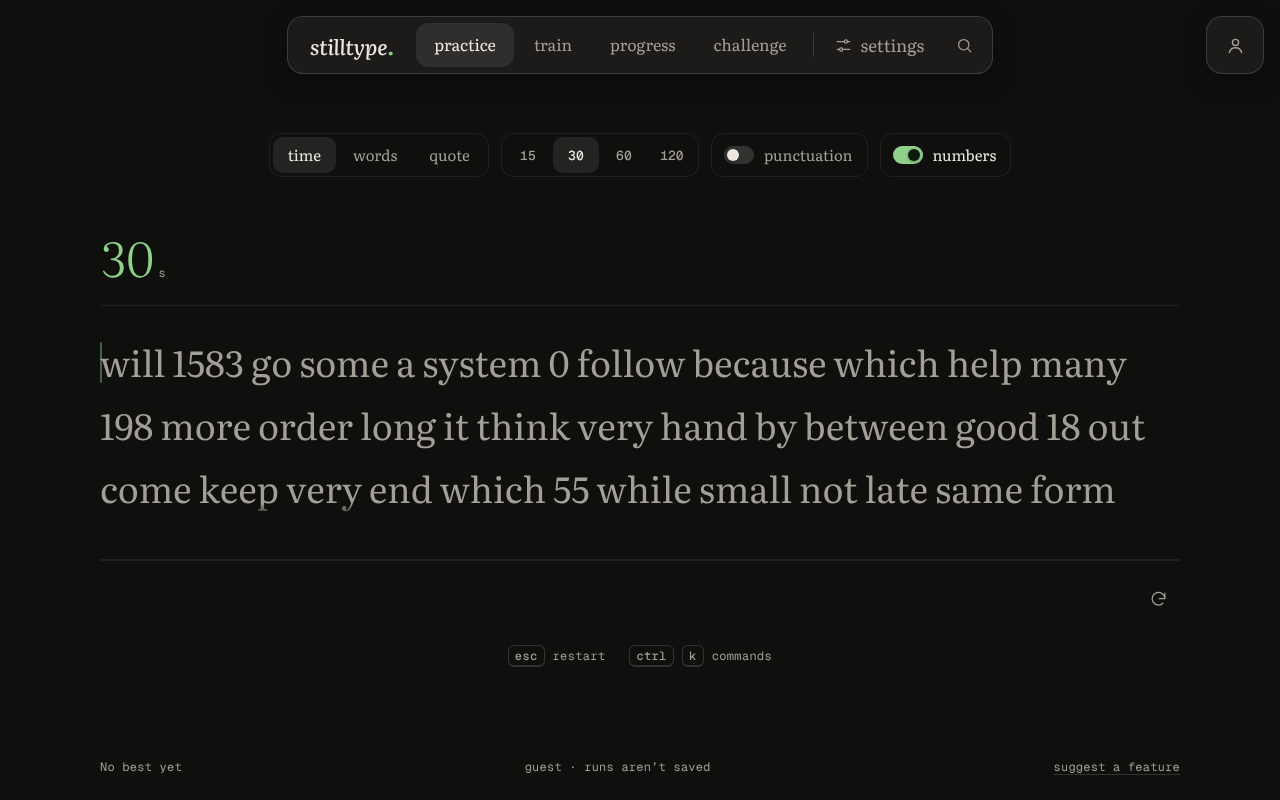
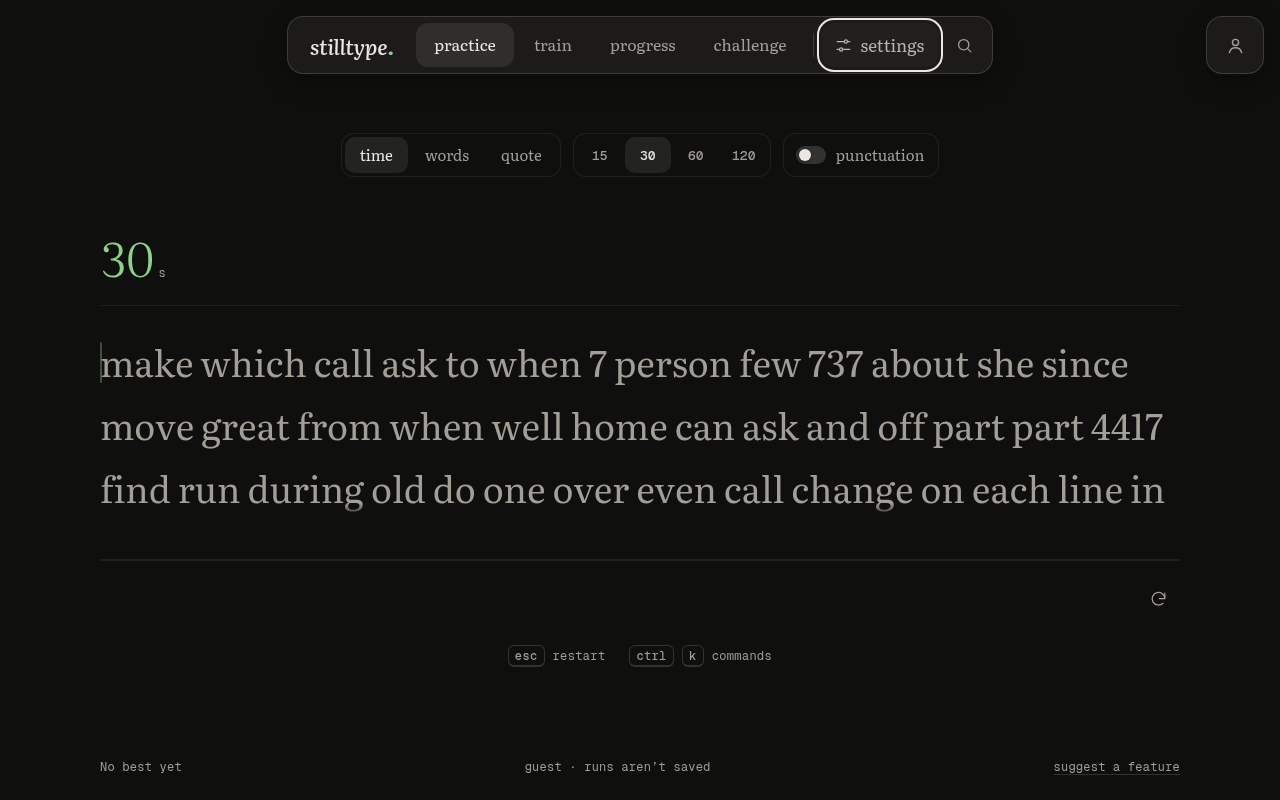
Tuck numbers into test content settings

diff --git a/e2e/numbers-toggle.spec.js b/e2e/numbers-toggle.spec.js
@@ -1,21 +1,166 @@
-import { test, expect, openApp, chooseWords, completePassage, passageText } from './fixtures.js';
+import { test, expect, openApp, chooseWords, completePassage, passageText, openSettings, openView, signInWithEmail } from './fixtures.js';
+import { dailyPassage } from '../src/insights.js';
+import { quoteCorpus } from '../src/typing.js';
 
 // Committed docs images are refreshed only with SCREENSHOTS=1; normal runs write to the test output.
 const shot = (testInfo, name) => (process.env.SCREENSHOTS ? `docs/screenshots/numbers-toggle/${name}` : testInfo.outputPath(name));
 
-test('numbers toggle mixes digits into the passage and into the conditions', async ({ page }) => {
+async function openTestContent(page) {
+  await openSettings(page);
+  const category = page.locator('#test-content-settings');
+  if (!(await category.evaluate((node) => node.open))) await category.locator('summary').click();
+  await expect(page.locator('#numbers-toggle')).toBeVisible();
+}
+
+async function numbersCommand(page, hint) {
+  await page.keyboard.press('Control+k');
+  await page.locator('#palette-input').fill('numbers');
+  await expect(page.locator('#palette-list [aria-selected="true"] .opt-hint')).toHaveText(hint);
+  await page.keyboard.press('Enter');
+  await expect(page.locator('#palette')).toBeHidden();
+}
+
+test('numbers live in test content settings, default off, and keep practice bests separate', async ({ page }) => {
   await openApp(page);
   await chooseWords(page, 10);
+  await expect(page.locator('.practice-controls #numbers-toggle')).toHaveCount(0);
+  await expect(page.locator('#numbers-toggle')).toBeHidden();
   await expect(page.locator('#numbers-toggle')).not.toBeChecked();
   expect(await passageText(page)).not.toMatch(/\d/);
+  await completePassage(page);
+  await expect(page.locator('#result-conditions')).not.toContainText('numbers');
 
-  await page.locator('label[for="numbers-toggle"]').click();
-  await expect(page.locator('#numbers-toggle')).toBeChecked();
+  await page.locator('#run-again').click();
+  await openSettings(page);
+  await expect(page.locator('#test-content-settings')).not.toHaveAttribute('open');
+  await expect(page.locator('#numbers-toggle')).toBeHidden();
+  await openTestContent(page);
+  await page.locator('#word-list').selectOption('1k');
+  await expect(page.locator('#condition-line')).toContainText('english 1k');
+  await page.locator('#word-list').selectOption('200');
+  await page.getByLabel('numbers', { exact: true }).check();
   await expect(page.locator('#condition-line')).toContainText('numbers');
   await expect.poll(() => passageText(page)).toMatch(/\d/);
-
+  await expect(page.locator('#best')).toHaveText('No best yet');
   await completePassage(page);
   await expect(page.locator('#result-conditions')).toContainText('numbers');
+  await expect(page.locator('#result-delta')).toHaveText('First run at these settings');
+
+  await openView(page, 'Progress');
+  const conditions = page.locator('#progress-conditions');
+  const keys = await conditions.locator('option').evaluateAll((options) => options.filter((o) => o.textContent.includes('10 words')).map((o) => o.value));
+  expect(keys).toHaveLength(2);
+  for (const key of keys) {
+    await conditions.selectOption(key);
+    await expect(page.locator('#run-history .run-row')).toHaveCount(1);
+  }
+});
+
+test('numbers command stays available and toggles timed passages both ways', async ({ page }) => {
+  await openApp(page);
+  await numbersCommand(page, 'off');
+  await expect(page.locator('#numbers-toggle')).toBeChecked();
+  await expect(page.locator('#condition-line')).toContainText('30 s');
+  await expect(page.locator('#condition-line')).toContainText('numbers');
+  expect(await passageText(page)).toMatch(/\d/);
+  await numbersCommand(page, 'on');
+  await expect(page.locator('#numbers-toggle')).not.toBeChecked();
+  await expect(page.locator('#condition-line')).not.toContainText('numbers');
+  expect(await passageText(page)).not.toMatch(/\d/);
+});
+
+test('fresh retests restore numbers from the baseline after the preference changes', async ({ page }) => {
+  await openApp(page);
+  await chooseWords(page, 10);
+  await numbersCommand(page, 'off');
+  const baseline = await completePassage(page);
+  await numbersCommand(page, 'on');
+  await expect(page.locator('#numbers-toggle')).not.toBeChecked();
+  await openView(page, 'Train');
+  await page.locator('#skip-to-retest').click();
+  await expect(page.locator('#typing-screen')).toHaveAttribute('data-session', 'retest');
+  await expect(page.locator('#numbers-toggle')).toBeChecked();
+  await expect(page.locator('#condition-line')).toContainText('numbers');
+  expect(await passageText(page)).not.toBe(baseline);
+  expect(await passageText(page)).toMatch(/\d/);
+  await completePassage(page);
+  await expect(page.locator('#comparison-panel')).toBeVisible();
+  await expect(page.locator('#comparison-panel')).toHaveAttribute('data-outcome', /^(improved|mixed|regressed|steady)$/);
+});
+
+test('quotes ignore numbers and preserve the practice preference', async ({ page }) => {
+  await openApp(page);
+  await numbersCommand(page, 'off');
+  await page.locator('#mode-quote').click();
+  const quote = await passageText(page);
+  expect(quoteCorpus.some((item) => item.text === quote)).toBe(true);
+  await expect(page.locator('#condition-line')).not.toContainText('numbers');
+  await openTestContent(page);
+  await expect(page.locator('#numbers-toggle')).toBeDisabled();
+  await expect(page.locator('#numbers-toggle')).toBeChecked();
+  await page.keyboard.press('Control+k');
+  await page.locator('#palette-input').fill('numbers');
+  await expect(page.locator('#palette-list [role="option"] .opt-label').filter({ hasText: /^numbers$/ })).toHaveCount(0);
+  await page.keyboard.press('Escape');
+  await page.locator('#mode-time').click();
+  await expect(page.locator('#numbers-toggle')).toBeEnabled();
+  await expect(page.locator('#numbers-toggle')).toBeChecked();
+  await expect(page.locator('#condition-line')).toContainText('numbers');
+});
+
+test('account reload retains numbers while daily text and scores stay unchanged', async ({ page, supabase }) => {
+  const day = new Date('2026-10-11T12:00:00Z');
+  await page.clock.install({ time: day });
+  supabase.addUser('numbers@stilltype.test');
+  await openApp(page);
+  await signInWithEmail(page, 'numbers@stilltype.test');
+  await chooseWords(page, 10);
+  await numbersCommand(page, 'off');
+  await expect.poll(() => supabase.profileFor('numbers@stilltype.test')?.preferences.numbers).toBe(true);
+  await page.reload();
+  await expect(page.locator('#numbers-toggle')).toBeChecked();
+  expect(await passageText(page)).toMatch(/\d/);
+  await expect(page.locator('#test-content-settings')).not.toHaveAttribute('open');
+  await openView(page, 'Challenge');
+  await page.locator('#challenge-daily').click();
+  await page.locator('#start-daily').click();
+  expect(await passageText(page)).toBe(dailyPassage(day).text);
+  await expect(page.locator('#condition-line')).not.toContainText('numbers');
+  await completePassage(page);
+  await expect(page.locator('#result-delta')).toHaveText('Daily challenge complete');
+  await expect.poll(() => supabase.profileFor('numbers@stilltype.test')?.runs.length).toBe(1);
+  const profile = supabase.profileFor('numbers@stilltype.test');
+  expect(profile.runs[0]).toMatchObject({ kind: 'daily', conditions: { numbers: false } });
+  expect(profile.bests).toEqual({});
+  expect(profile.preferences.numbers).toBe(true);
+  await openView(page, 'Practice');
+  await expect(page.locator('#condition-line')).toContainText('numbers');
+  expect(await passageText(page)).toMatch(/\d/);
+});
+
+test('test content and its numbers switch work by keyboard at 320px', async ({ page }) => {
+  await page.setViewportSize({ width: 320, height: 760 });
+  await openApp(page);
+  const settings = page.locator('details.preferences > summary');
+  await settings.focus();
+  await page.keyboard.press('Enter');
+  const category = page.locator('#test-content-settings > summary');
+  await category.focus();
+  await page.keyboard.press('Enter');
+  await page.keyboard.press('Tab');
+  await expect(page.locator('#word-list')).toBeFocused();
+  await page.keyboard.press('Tab');
+  await expect(page.locator('#numbers-toggle')).toBeFocused();
+  await page.keyboard.press('Space');
+  await expect(page.locator('#numbers-toggle')).toBeChecked();
+  await expect(page.locator('#condition-line')).toContainText('numbers');
+  expect(await page.evaluate(() => document.documentElement.scrollWidth)).toBeLessThanOrEqual(320);
+  const bounds = await page.locator('#numbers-toggle').boundingBox();
+  expect(bounds.x).toBeGreaterThanOrEqual(0);
+  expect(bounds.x + bounds.width).toBeLessThanOrEqual(320);
+  await page.keyboard.press('Escape');
+  await expect(page.locator('.preferences-popover')).toBeHidden();
+  await expect(settings).toBeFocused();
 });
 
 test('screenshots', async ({ page }, testInfo) => {
@@ -23,10 +168,11 @@ test('screenshots', async ({ page }, testInfo) => {
   for (const theme of ['dark', 'light']) {
     await page.emulateMedia({ colorScheme: theme });
     await openApp(page);
-    await page.locator('#mode-time').click();
-    if (!(await page.locator('#numbers-toggle').isChecked())) await page.locator('label[for="numbers-toggle"]').click();
-    await expect(page.locator('#numbers-toggle')).toBeChecked();
+    await openTestContent(page);
+    await page.locator('#numbers-toggle').check();
     await expect.poll(async () => /\d/.test(await passageText(page))).toBe(true);
+    await page.screenshot({ path: shot(testInfo, `settings-${theme}.png`) });
+    await page.keyboard.press('Escape');
     await page.screenshot({ path: shot(testInfo, `mode-bar-${theme}.png`) });
   }
   await page.emulateMedia({ colorScheme: 'dark' });
@@ -34,4 +180,8 @@ test('screenshots', async ({ page }, testInfo) => {
   await completePassage(page);
   await expect(page.locator('#result-conditions')).toContainText('numbers');
   await page.screenshot({ path: shot(testInfo, 'run-card-dark.png') });
+  await page.setViewportSize({ width: 320, height: 760 });
+  await openView(page, 'Practice');
+  await openTestContent(page);
+  await page.screenshot({ path: shot(testInfo, 'settings-mobile.png') });
 });

diff --git a/index.html b/index.html
@@ -57,15 +57,22 @@
                 <option value="36">large</option>
               </select>
             </label>
-            <label class="preference-row" for="word-list">
-              <span><strong>word list</strong></span>
-              <select class="input select" id="word-list">
-                <option value="200" selected>top 200</option>
-                <option value="1k">top 1k</option>
-                <option value="5k">top 5k</option>
-                <option value="10k">top 10k</option>
-              </select>
-            </label>
+            <details class="preference-category" id="test-content-settings">
+              <summary class="preference-row"><span><strong>test content</strong></span></summary>
+              <label class="preference-row" for="word-list">
+                <span><strong>word list</strong></span>
+                <select class="input select" id="word-list">
+                  <option value="200" selected>top 200</option>
+                  <option value="1k">top 1k</option>
+                  <option value="5k">top 5k</option>
+                  <option value="10k">top 10k</option>
+                </select>
+              </label>
+              <label class="preference-row" for="numbers-toggle">
+                <span><strong>numbers</strong></span>
+                <input id="numbers-toggle" class="switch" type="checkbox">
+              </label>
+            </details>
             <label class="preference-row" for="live-toggle">
               <span><strong>live wpm and accuracy</strong></span>
               <input class="switch" id="live-toggle" type="checkbox">
@@ -147,10 +154,6 @@
           <label class="compact-switch" for="punctuation-toggle">
             <input id="punctuation-toggle" class="switch" type="checkbox">
             <span>punctuation</span>
-          </label>
-          <label class="compact-switch" for="numbers-toggle">
-            <input id="numbers-toggle" class="switch" type="checkbox">
-            <span>numbers</span>
           </label>
         </div>
 

diff --git a/src/styles.css b/src/styles.css
@@ -349,7 +349,7 @@ kbd {
 .preferences { flex: none; }
 .preferences summary { list-style: none; }
 .preferences summary::-webkit-details-marker { display: none; }
-.preferences[open] summary { color: var(--text); background: var(--raised-2); }
+.preferences[open] > summary { color: var(--text); background: var(--raised-2); }
 
 .preferences-popover {
   position: absolute;
@@ -383,6 +383,11 @@ kbd {
 .preference-row > span { min-width: 0; display: grid; gap: 2px; }
 .preference-row strong { font-size: 15px; font-weight: 600; }
 .preference-row .select { width: 104px; height: 36px; font-size: 14px; }
+
+.preference-category > summary { color: var(--muted); }
+.preference-category > summary::after { content: '+'; }
+.preference-category[open] > summary::after { content: '−'; }
+.preference-category > label { margin-left: var(--space-3); }
 
 .site-footer {
   padding: var(--space-8) 0 var(--space-6);

diff --git a/e2e/challenge.spec.js b/e2e/challenge.spec.js
@@ -3,7 +3,7 @@ import { test, expect, openApp, openView, typeInto } from './fixtures.js';
 test('two players type the same hidden-then-revealed passage', async ({ page }) => {
   await openApp(page);
   // Stop on error is captured when the challenge starts, so a wrong last letter must be fixed.
-  await page.locator('details.preferences summary').click();
+  await page.locator('details.preferences > summary').click();
   await page.locator('#stop-on-error-toggle').check();
   await openView(page, 'Challenge');
   await page.locator('#challenge-local').click();

diff --git a/e2e/typing.spec.js b/e2e/typing.spec.js
@@ -37,7 +37,7 @@ test('a corrected mistake keeps its first-try error and visible tint', async ({ 
 
 test('stop on error blocks the next letter until the miss is fixed', async ({ page }) => {
   await openApp(page);
-  await page.locator('details.preferences summary').click();
+  await page.locator('details.preferences > summary').click();
   await page.locator('#stop-on-error-toggle').check();
   await expect(page.locator('#condition-line')).toContainText('stop on error');
   const text = await passageText(page);

diff --git a/e2e/chrome.spec.js b/e2e/chrome.spec.js
@@ -57,7 +57,7 @@ test('settings apply their display preferences', async ({ page }) => {
   // Escape closes the popover and returns focus to its toggle.
   await page.keyboard.press('Escape');
   await expect(page.locator('.preferences-popover')).toBeHidden();
-  await expect(page.locator('details.preferences summary')).toBeFocused();
+  await expect(page.locator('details.preferences > summary')).toBeFocused();
 });
 
 test('focus mode has an explicit exit and answers Escape', async ({ page }) => {

diff --git a/e2e/fixtures.js b/e2e/fixtures.js
@@ -71,7 +71,7 @@ export async function openView(page, label) {
 
 export async function openSettings(page) {
   const settings = page.locator('details.preferences');
-  if ((await settings.getAttribute('open')) === null) await settings.locator('summary').click();
+  if ((await settings.getAttribute('open')) === null) await settings.locator(':scope > summary').click();
   await expect(page.locator('.preferences-popover')).toBeVisible();
 }
 

diff --git a/src/app.js b/src/app.js
@@ -1825,6 +1825,7 @@ function bindEvents() {
   });
   $('numbers-toggle').addEventListener('change', (event) => {
     prefs.numbers = event.target.checked;
+    showBest();
     saveProfile();
     resetSession('practice', { focus: true });
   });

diff --git a/docs/ui-contract.md b/docs/ui-contract.md
@@ -19,6 +19,8 @@ This document is the integration contract between the static interface in `index
 
 The dock (`nav.dock` in `.dock-zone`) holds the brand link, the `.dock-nav` view buttons, the settings popover (`details.preferences`, whose `summary.dock-settings` shows an icon and the label "settings") and `#palette-trigger`. The popover is positioned against the dock: below it on desktop, above it on mobile. Restart (`#restart-button`) stays in the typing footer.
 
+The collapsed `#test-content-settings` category contains `#word-list` and `#numbers-toggle`. Numbers default off, apply only to time/word tests, and remain available through the "numbers" command. They are recorded in run conditions, keeping bests and retests separate from runs without numbers. Quote and daily passages ignore the preference. The passage mode bar has no numbers control.
+
 Selection pills: a `.glide` container with `data-glide="current"` follows `aria-current`; `data-glide="pressed"` follows `aria-pressed`. Its `.glide-pill` is aria-hidden decoration; state always lives in the ARIA attributes and `.is-active`.
 
 Settings are `#theme-select` (`system`, `dark`, `light`), `#font-size` (`22`, `28`, `36`), `#live-toggle`, `#keyboard-toggle`, `#stop-on-error-toggle`, and `#focus-toggle`; `#exit-focus` sits outside the dock. Apply theme as `html[data-theme]`; font size as `body[data-font-size]`; live metrics as `body[data-live-metrics]`; keyboard as `body[data-keyboard]`; focus mode as `body[data-focus-mode]`. Stop on error defaults on; turning it off permits advancement after mistakes. Changing the correction policy starts a new practice run. The policy is stored in run conditions, keeping bests and comparisons separate. The generated keyboard belongs in `#keyboard`. Escape or `#exit-focus` exits focus mode before applying the ordinary Escape restart behavior.
